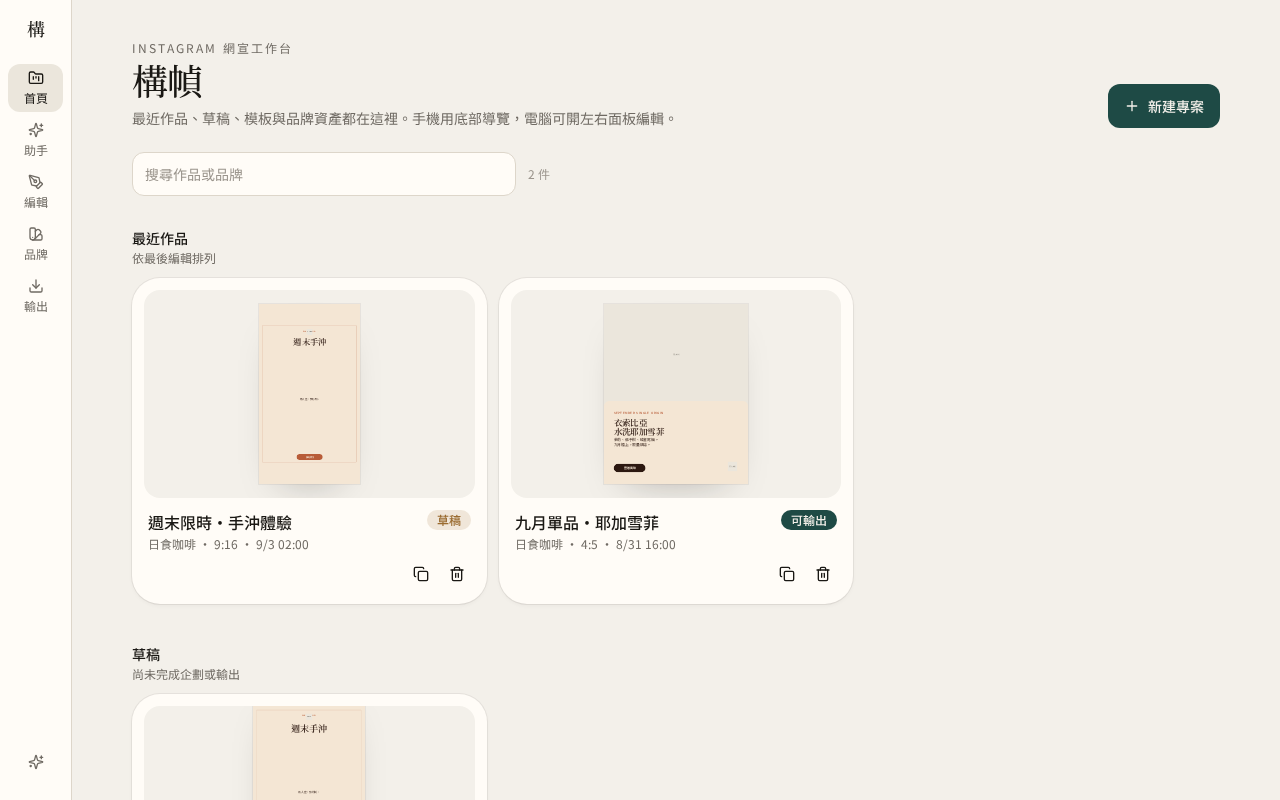
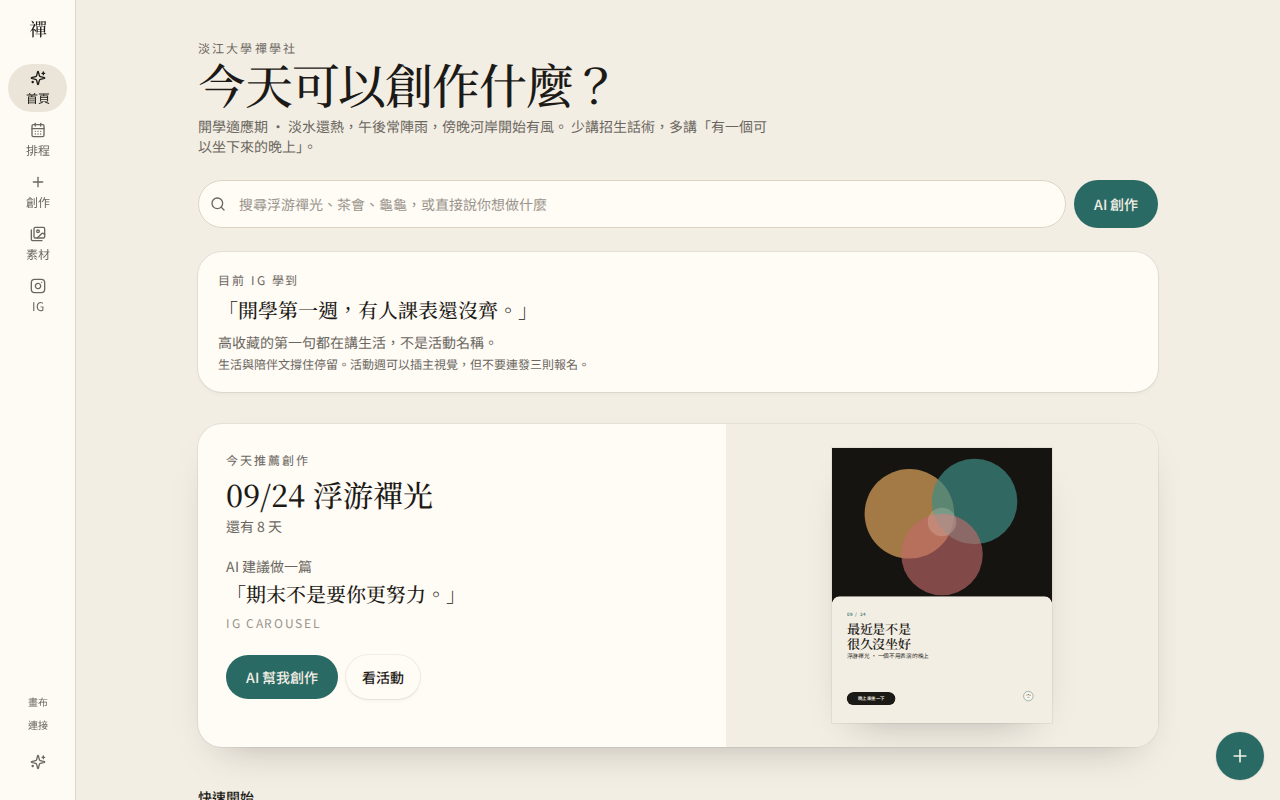
Open campaign desks from the list, and keep the home search field still.
The campaigns layout now renders child routes, so 改寫／換視覺／換角度 actually show. Asset URL loading no longer retriggers every render, which was blocking typing in Global Search.

diff --git a/src/routeTree.gen.ts b/src/routeTree.gen.ts
@@ -21,6 +21,7 @@ import { Route as ExportRouteImport } from './routes/export'
 import { Route as IgRouteImport } from './routes/ig'
 import { Route as InspireRouteImport } from './routes/inspire'
 import { Route as StudioRouteImport } from './routes/studio'
+import { Route as CampaignsIndexRouteImport } from './routes/campaigns.index'
 import { Route as CampaignsCampaignIdRouteImport } from './routes/campaigns.$campaignId'
 import { Route as StudioIndexRouteImport } from './routes/studio.index'
 import { Route as StudioProjectIdRouteImport } from './routes/studio.$projectId'
@@ -86,6 +87,11 @@ const StudioRoute = StudioRouteImport.update({
   path: '/studio',
   getParentRoute: () => rootRouteImport,
 } as any)
+const CampaignsIndexRoute = CampaignsIndexRouteImport.update({
+  id: '/',
+  path: '/',
+  getParentRoute: () => CampaignsRoute,
+} as any)
 const CampaignsCampaignIdRoute = CampaignsCampaignIdRouteImport.update({
   id: '/$campaignId',
   path: '/$campaignId',
@@ -122,6 +128,7 @@ export interface FileRoutesByFullPath {
   '/studio': typeof StudioRouteWithChildren
   '/campaigns/$campaignId': typeof CampaignsCampaignIdRoute
   '/studio/$projectId': typeof StudioProjectIdRoute
+  '/campaigns/': typeof CampaignsIndexRoute
   '/studio/': typeof StudioIndexRoute
   '/api/connect/$': typeof ApiConnectSplatRoute
 }
@@ -131,7 +138,6 @@ export interface FileRoutesByTo {
   '/assistant': typeof AssistantRoute
   '/brand': typeof BrandRoute
   '/calendar': typeof CalendarRoute
-  '/campaigns': typeof CampaignsRouteWithChildren
   '/connect': typeof ConnectRoute
   '/create': typeof CreateRoute
   '/export': typeof ExportRoute
@@ -139,6 +145,7 @@ export interface FileRoutesByTo {
   '/inspire': typeof InspireRoute
   '/campaigns/$campaignId': typeof CampaignsCampaignIdRoute
   '/studio/$projectId': typeof StudioProjectIdRoute
+  '/campaigns': typeof CampaignsIndexRoute
   '/studio': typeof StudioIndexRoute
   '/api/connect/$': typeof ApiConnectSplatRoute
 }
@@ -158,6 +165,7 @@ export interface FileRoutesById {
   '/studio': typeof StudioRouteWithChildren
   '/campaigns/$campaignId': typeof CampaignsCampaignIdRoute
   '/studio/$projectId': typeof StudioProjectIdRoute
+  '/campaigns/': typeof CampaignsIndexRoute
   '/studio/': typeof StudioIndexRoute
   '/api/connect/$': typeof ApiConnectSplatRoute
 }
@@ -178,6 +186,7 @@ export interface FileRouteTypes {
     | '/studio'
     | '/campaigns/$campaignId'
     | '/studio/$projectId'
+    | '/campaigns/'
     | '/studio/'
     | '/api/connect/$'
   fileRoutesByTo: FileRoutesByTo
@@ -187,7 +196,6 @@ export interface FileRouteTypes {
     | '/assistant'
     | '/brand'
     | '/calendar'
-    | '/campaigns'
     | '/connect'
     | '/create'
     | '/export'
@@ -195,6 +203,7 @@ export interface FileRouteTypes {
     | '/inspire'
     | '/campaigns/$campaignId'
     | '/studio/$projectId'
+    | '/campaigns'
     | '/studio'
     | '/api/connect/$'
   id:
@@ -213,6 +222,7 @@ export interface FileRouteTypes {
     | '/studio'
     | '/campaigns/$campaignId'
     | '/studio/$projectId'
+    | '/campaigns/'
     | '/studio/'
     | '/api/connect/$'
   fileRoutesById: FileRoutesById
@@ -319,6 +329,13 @@ declare module '@tanstack/react-router' {
       preLoaderRoute: typeof StudioRouteImport
       parentRoute: typeof rootRouteImport
     }
+    '/campaigns/': {
+      id: '/campaigns/'
+      path: '/'
+      fullPath: '/campaigns/'
+      preLoaderRoute: typeof CampaignsIndexRouteImport
+      parentRoute: typeof CampaignsRoute
+    }
     '/campaigns/$campaignId': {
       id: '/campaigns/$campaignId'
       path: '/$campaignId'
@@ -352,10 +369,12 @@ declare module '@tanstack/react-router' {
 
 interface CampaignsRouteChildren {
   CampaignsCampaignIdRoute: typeof CampaignsCampaignIdRoute
+  CampaignsIndexRoute: typeof CampaignsIndexRoute
 }
 
 const CampaignsRouteChildren: CampaignsRouteChildren = {
   CampaignsCampaignIdRoute: CampaignsCampaignIdRoute,
+  CampaignsIndexRoute: CampaignsIndexRoute,
 }
 
 const CampaignsRouteWithChildren = CampaignsRoute._addFileChildren(

diff --git a/src/hooks/use-asset-urls.ts b/src/hooks/use-asset-urls.ts
@@ -1,11 +1,12 @@
 import { useEffect, useMemo, useState } from "react";
 import { objectUrlForAsset } from "@/lib/studio/assets-idb";
+import { assetUrlKey } from "@/lib/studio/asset-url-key";
 import { useStudio } from "@/stores/studio-store";
 
 export function useAssetUrls(ids: string[]): Record<string, string> {
   const assets = useStudio((s) => s.assets);
-  const list = useMemo(() => [...new Set(ids.filter(Boolean))].sort(), [ids]);
-  const key = list.join("|");
+  const key = assetUrlKey(ids);
+  const list = useMemo(() => (key ? key.split("|") : []), [key]);
   const seedFallbacks = useMemo(() => {
     const map: Record<string, string> = {};
     for (const asset of assets) {
@@ -31,7 +32,12 @@ export function useAssetUrls(ids: string[]): Record<string, string> {
         }),
       );
       if (cancelled) return;
-      setBlobUrls(next);
+      setBlobUrls((prev) => {
+        const same =
+          Object.keys(prev).length === Object.keys(next).length &&
+          Object.keys(next).every((id) => prev[id] === next[id]);
+        return same ? prev : next;
+      });
       const missing = list.filter((id) => !next[id] && !seedFallbacks[id]);
       if (missing.length && attempts < 10) {
         attempts += 1;

diff --git a/src/components/campaigns/campaign-list.tsx b/src/components/campaigns/campaign-list.tsx
@@ -49,7 +49,7 @@ export function CampaignList() {
       <div className="flex items-end justify-between gap-3">
         <div>
           <p className="text-xs tracking-[0.18em] text-muted uppercase">活動</p>
-          <h1 className="mt-1 font-display text-3xl">Campaign</h1>
+          <h1 className="mt-1 font-display text-3xl">這一季要做什麼</h1>
         </div>
         <Button onClick={() => setOpen(true)}>建立活動</Button>
       </div>

diff --git a/src/routes/campaigns.tsx b/src/routes/campaigns.tsx
@@ -1,4 +1,5 @@
-import { createFileRoute } from "@tanstack/react-router";
-import { CampaignList } from "@/components/campaigns/campaign-list";
+import { createFileRoute, Outlet } from "@tanstack/react-router";
 
-export const Route = createFileRoute("/campaigns")({ component: CampaignList });
+export const Route = createFileRoute("/campaigns")({
+  component: () => <Outlet />,
+});

diff --git a/src/components/shell/studio-provider.tsx b/src/components/shell/studio-provider.tsx
@@ -16,6 +16,7 @@ export function StudioProvider({ children }: { children: ReactNode }) {
         if (!cancelled) {
           useStudio.getState().setHydrated(true);
           useCreative.getState().setHydrated(true);
+          document.documentElement.dataset.studioReady = "1";
         }
         const assets = useStudio.getState().assets;
         void Promise.all(

diff --git a/src/lib/studio/asset-url-key.test.ts b/src/lib/studio/asset-url-key.test.ts
@@ -1,0 +1,8 @@
+import assert from "node:assert/strict";
+import test from "node:test";
+import { assetUrlKey } from "./asset-url-key.ts";
+
+test("asset url key ignores order and duplicates so Home can keep a stable search field", () => {
+  assert.equal(assetUrlKey(["b", "a", "a"]), assetUrlKey(["a", "b"]));
+  assert.equal(assetUrlKey([]), "");
+});

diff --git a/src/routes/campaigns.index.tsx b/src/routes/campaigns.index.tsx
@@ -1,0 +1,6 @@
+import { createFileRoute } from "@tanstack/react-router";
+import { CampaignList } from "@/components/campaigns/campaign-list";
+
+export const Route = createFileRoute("/campaigns/")({
+  component: CampaignList,
+});

diff --git a/src/lib/studio/asset-url-key.ts b/src/lib/studio/asset-url-key.ts
@@ -1,0 +1,3 @@
+export function assetUrlKey(ids: string[]) {
+  return [...new Set(ids.filter(Boolean))].sort().join("|");
+}
